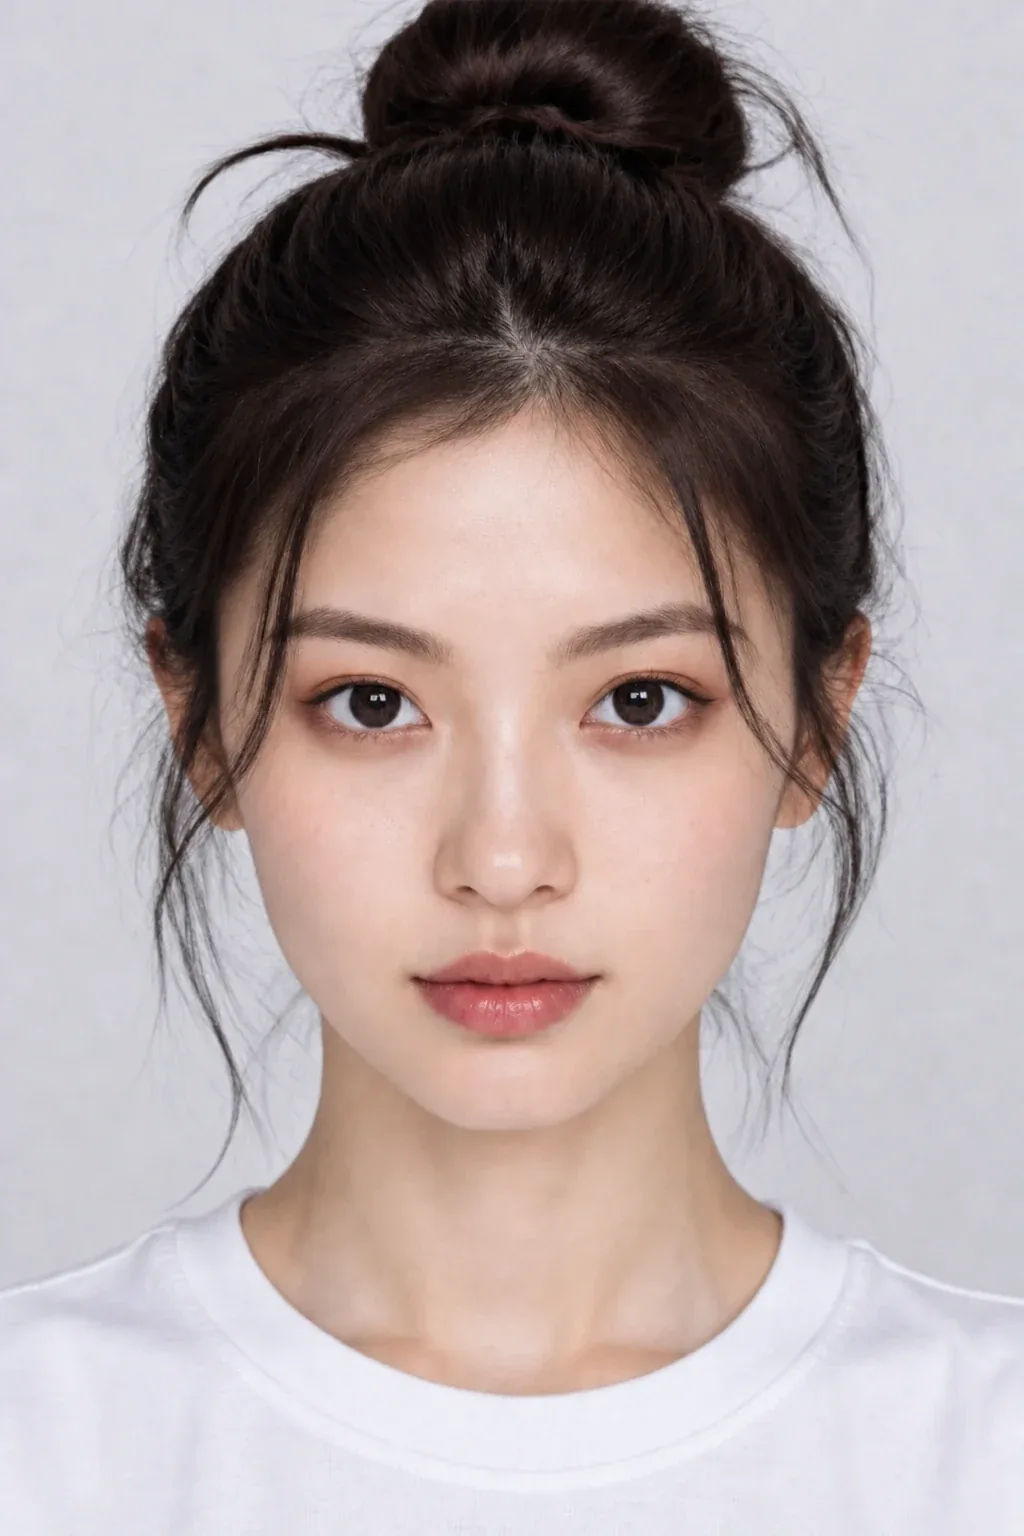
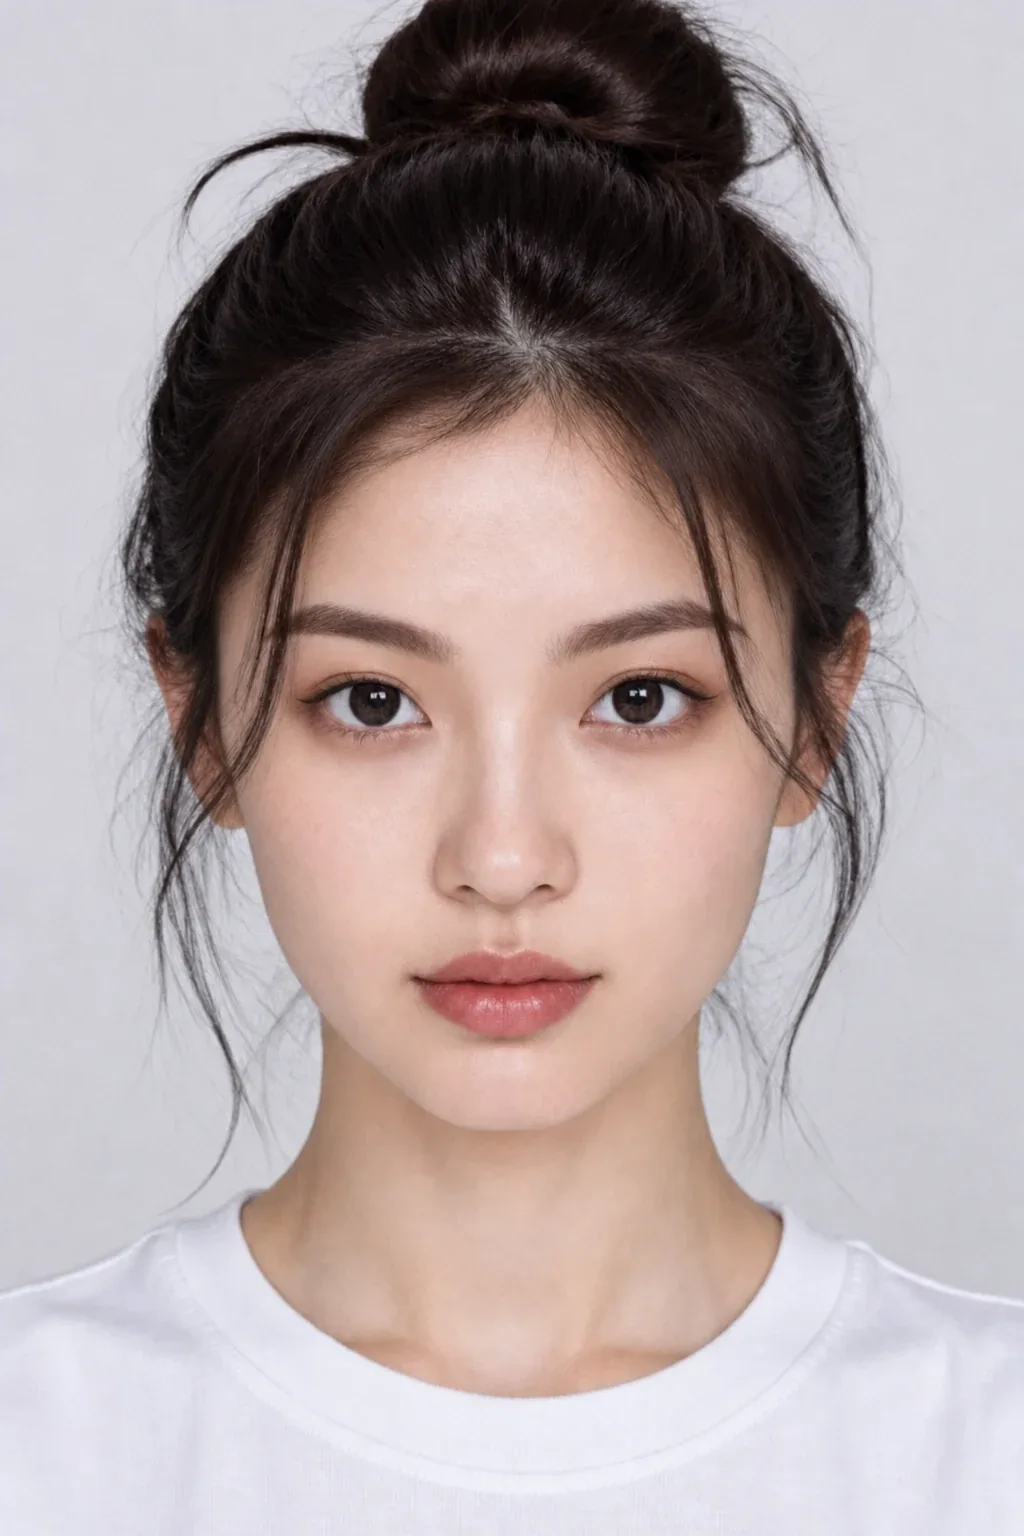
fix(looks): 차이가 약했던 겨울 룩·럭키 4종을 더 진하게 재생성
민낯 대비 차이 측정으로 대상을 골랐다. 지시문도 함께 강화해 예시 사진과 실제 결과가 같은 경로를 쓴다.
결혼운은 재생성본 차이가 더 작아 이전 사진을 유지. 이미지 캐시 버전 상향.

diff --git a/src/lib/makeup/styles.ts b/src/lib/makeup/styles.ts
@@ -357,10 +357,11 @@ export const ALL_MAKEUP_STYLES: MakeupStyle[] = [
     glow: 0.24,
     hair: 'a deep espresso brown with a subtle cool plum sheen — rich and dark, never grey.',
     prompt:
-      'the signature of this look is FROSTED, ICY EYES — clearly visible at a glance: a luminous icy silver-lilac ' +
-        'pearl eyeshadow across the eyelids with a bright frosted shimmer at the inner corners, and softly defined ' +
-        'lashes. Skin: clear and luminous with a cool frosted highlight on the tops of the cheekbones. Cheeks: a light ' +
-        'cool rosy pink. Lips: a satin plum-rose colour that keeps the exact original lip shape and outline. Overall: ' +
+      'the signature of this look is FROSTED, ICY EYES — clearly visible at a glance even in a small thumbnail: a ' +
+        'saturated, luminous icy silver-lilac pearl eyeshadow packed across the whole eyelid and visibly extended to ' +
+        'the outer corners, a bright frosted shimmer at the inner corners and along the lower lash line, and clearly ' +
+        'defined lashes. Skin: clear and luminous with a cool frosted highlight on the tops of the cheekbones. Cheeks: a light ' +
+        'cool rosy pink. Lips: a saturated satin plum-rose colour that keeps the exact original lip shape and outline. Overall: ' +
         'cool, crisp and wintry — unmistakably made-up, never identical to the bare face, and the skin must keep ' +
         'its own healthy warmth, never grey or lifeless.',
   },

diff --git a/src/lib/fortune/looks.ts b/src/lib/fortune/looks.ts
@@ -216,7 +216,16 @@ export const FORTUNE_LOOKS: FortuneLook[] = [
 
 // 예시 사진 — 2026-10-24 JJ 헤어 6종으로 6장 재생성(직업·합격·연애·인연·건강·해외). 파일명이 고정이라
 // 이미지를 바꿀 때마다 V 를 올릴 것(브라우저 캐시 4시간 — src/lib/makeup/lookImages.ts 와 같은 이유).
-const LOOK_IMG_V = '20261102'
+// 2026-11-02 새 모델 생성에서 민낯과 차이가 가장 작았던 5종(측정값 기준) — 작은 카드에서도 보이게 강도를 올린다.
+// 예시 사진과 실제 사용자 결과가 같은 지시문을 쓴다(§8).
+const STRONGER_LOOKS: FortuneLookId[] = ['reunion', 'love', 'marriage', 'exam', 'career']
+for (const look of FORTUNE_LOOKS) {
+  if (STRONGER_LOOKS.includes(look.id)) {
+    look.prompt += ' Make the eye, cheek and lip colours clearly visible at a glance even in a small thumbnail: visibly more saturated and defined than an everyday natural look, unmistakably made-up, never identical to the bare face — while keeping the exact original lip shape and face.'
+  }
+}
+
+const LOOK_IMG_V = '20261102b'
 export const luckyLookImg = (id: FortuneLookId) => `/fortune/looks/${id}-after.webp?v=${LOOK_IMG_V}`
 
 export const fortuneLookById = (id: FortuneLookId): FortuneLook =>

diff --git a/src/lib/makeup/lookImages.ts b/src/lib/makeup/lookImages.ts
@@ -30,7 +30,7 @@ const DIR = '/styles/looks'
 // `cache-control: public, max-age=14400`(4시간) 동안 옛 사진을 계속 쓴다. 실제로 9룩을
 // 전부 갈아끼운 날 "반영이 안 된다"는 보고가 나왔다(서버는 새 파일, 브라우저가 옛 파일).
 // **이미지를 재생성할 때마다 이 날짜를 올릴 것.** 그래야 기존 방문자도 즉시 새 사진을 본다.
-const V = '20261102'
+const V = '20261102b'
 const src = (name: string) => `${DIR}/${name}.webp?v=${V}`
 
 export const LOOK_IMAGES: Record<MakeupStyleId, LookImage> = {
